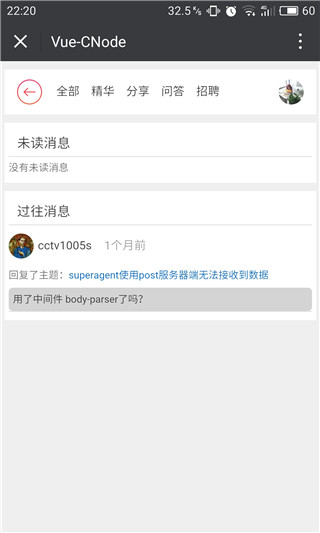
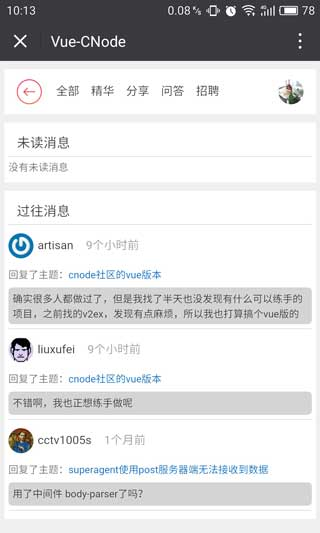
修改消息页的样式，更新截图

diff --git a/src/components/notification.vue b/src/components/notification.vue
@@ -133,6 +133,7 @@
 	.notification_list {
 		background-color: #fff;
 		.notification_item {
+			padding-bottom: 5px;
 			border-bottom: 1px #e0e0e0 solid;
 		}
 		.notification_author {
@@ -175,7 +176,7 @@
 	    }
 		}
 		.reply_content {
-			max-height: 45px;
+			max-height: 44px;
 	    padding: 5px;
 	    margin-top: 5px;
 	    background: #d4d4d4;
